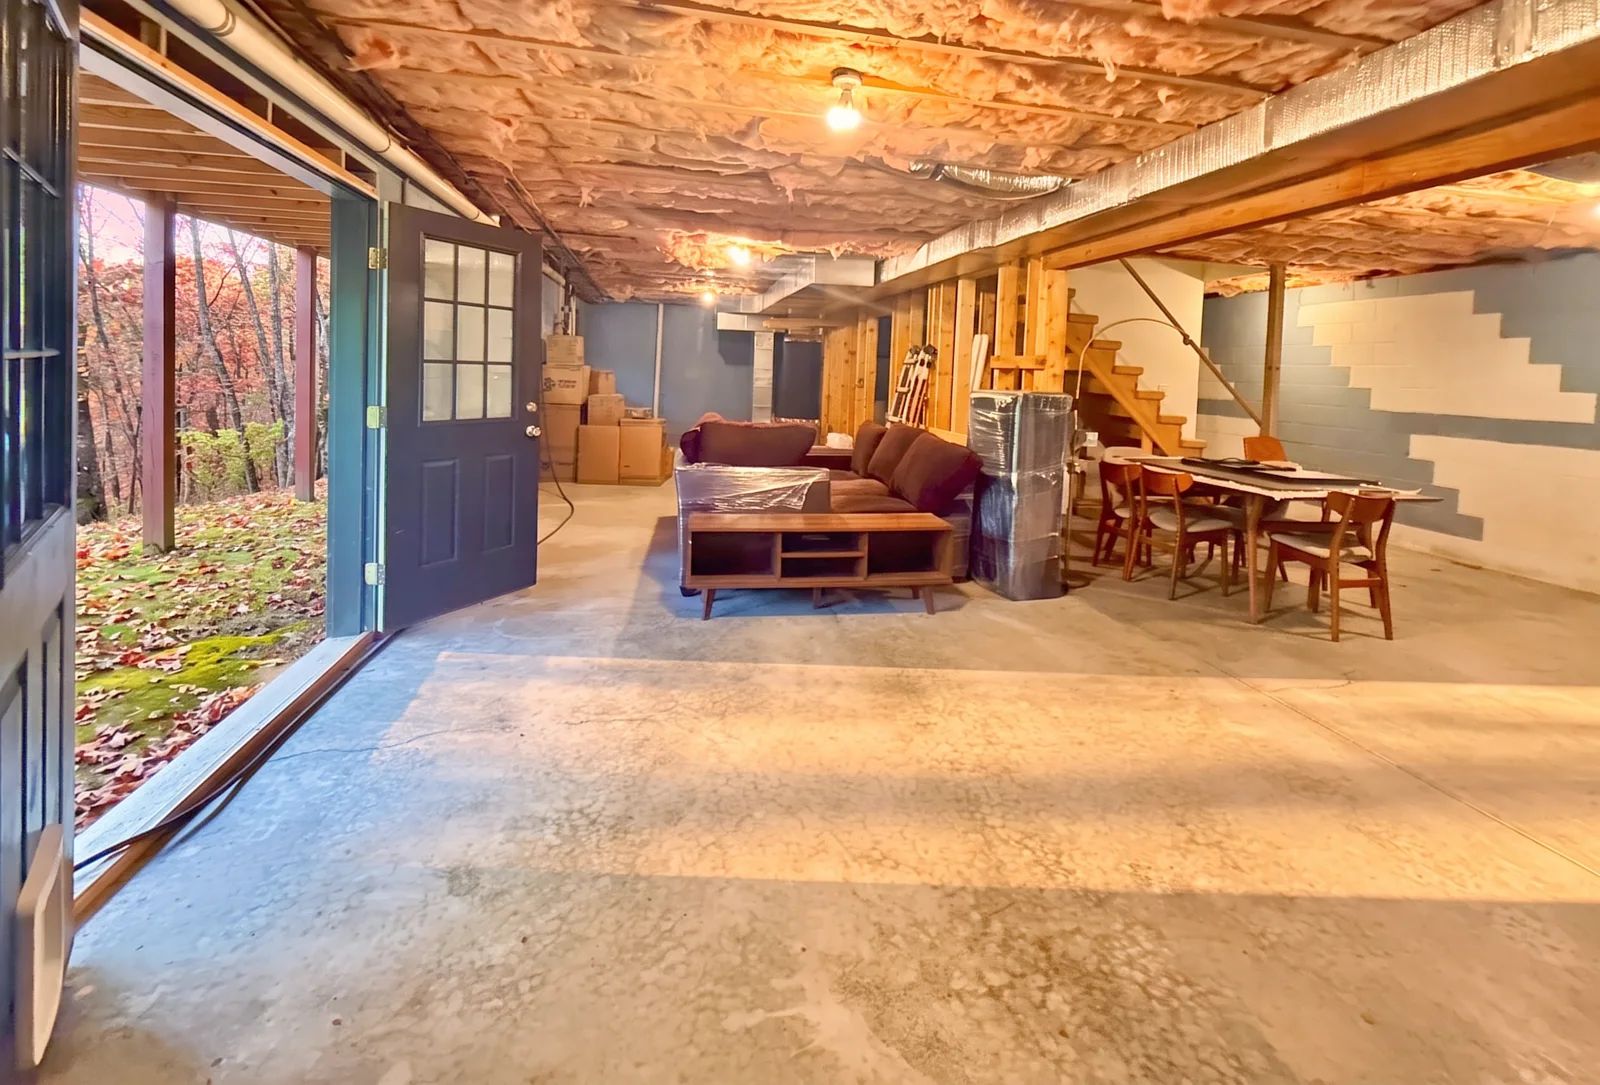
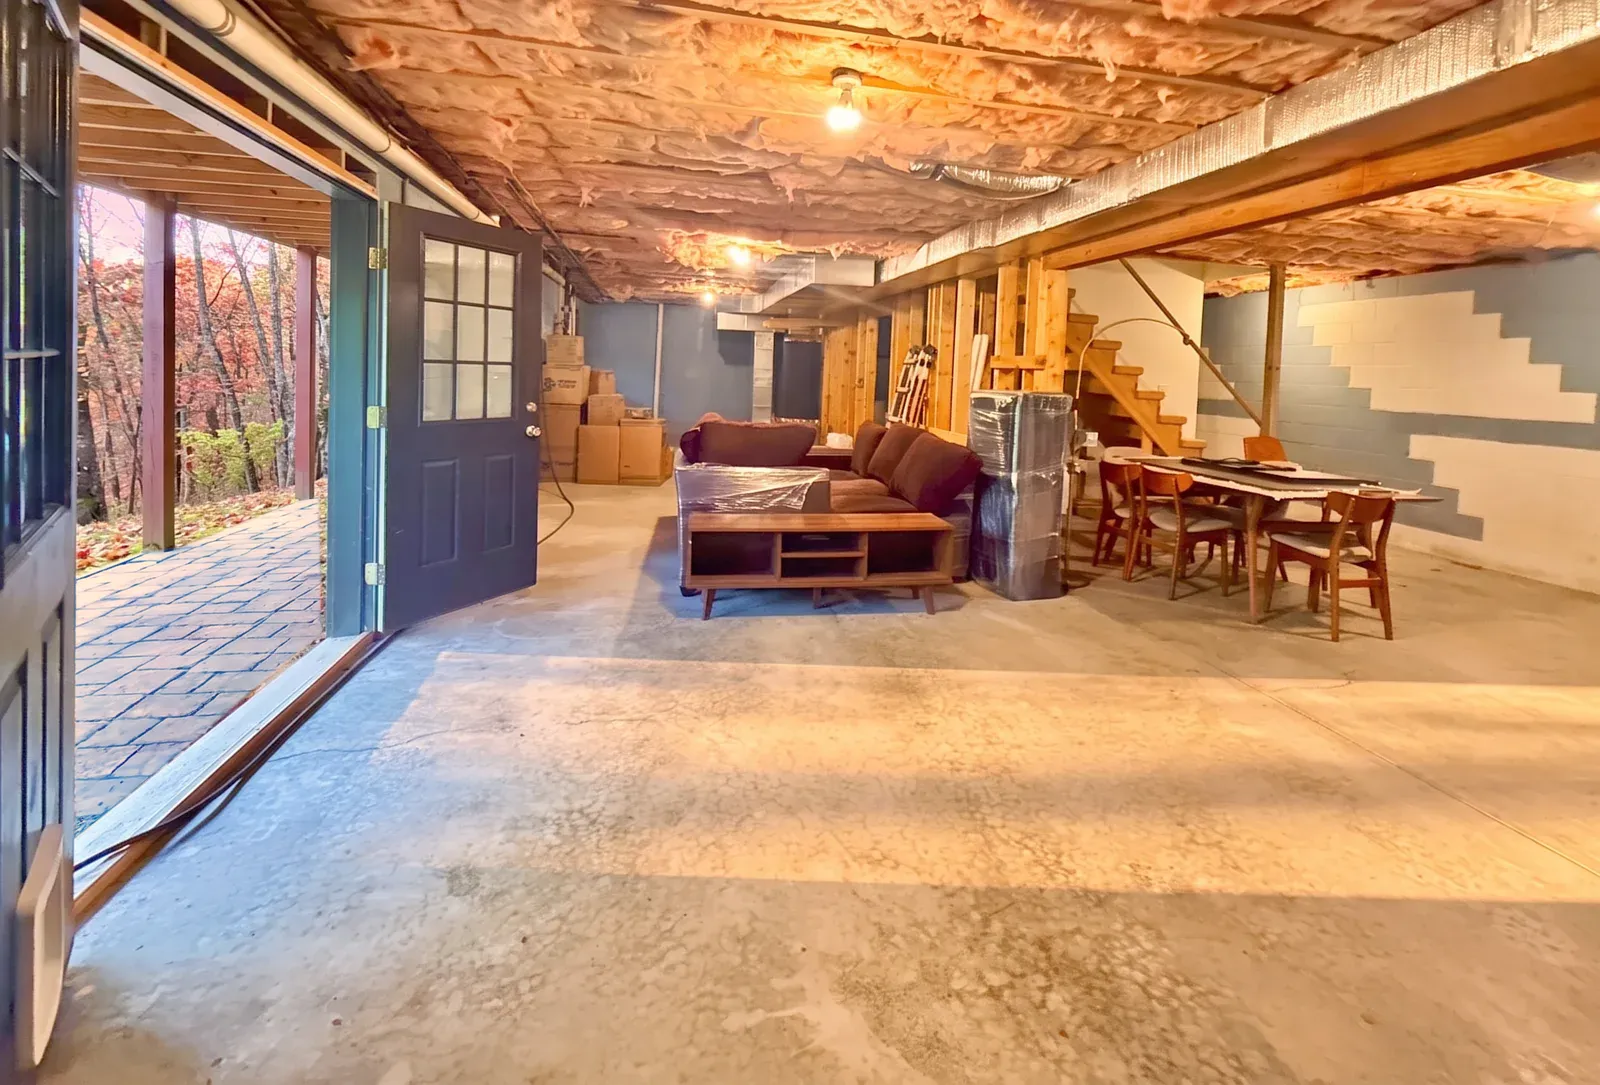
Finish approved photo73 cleanup and seasonal asset closeout

Changed region(s): [[0.0312, 0.4562, 0.2188, 0.7604]]

diff --git a/.pi/plans/2026-10-09-colonial-66v-photo73-closeout-plan.md b/.pi/plans/2026-10-09-colonial-66v-photo73-closeout-plan.md
@@ -1,0 +1,20 @@
+# Photo73 repair and colonial-66v closeout
+
+**Issue:** colonial-66v
+**Branch:** main
+**Goal:** install owner-approved four-anchor photo73 repair, verify bounded change, close asset work with explicit review exceptions.
+
+## Accepted scope
+
+Owner approved private `.pi/artifacts/colonial-66v-photo73-repair/review.jpg` and four PNG masters after requesting doorway clutter removal. Summer removes bags/hose/shop-vac/tools/mat; seasonal frames restore the paved landing. Interior storage/furniture and original/gallery photos remain untouched. Pixels outside repair masks match their respective sources exactly. Reconstructed ground beneath clutter is not measured ground truth.
+
+Use `assets/seasons-next/73/{00,03,06,09}.webp` and matching small files. Existing recipe: large WebP quality80, small quality78 resized from large to original-small dimensions. Change only photo73 in `frames.json` to keys0/3/6/9, original=[]; untouched gallery73 remains fallback. Update `scripts/publish-files.txt` accordingly. Archive then retire tracked08/08-small from seasonal export directory (strict inventory rejects unused files); recoverable from e046fb0a0545e9cbf390c9683fc5c9c4bdb62c4c and private backup. Preserve every private master.
+
+## Verification and closeout
+
+- Add focused manifest/generated-summer/publication regression in `tests/seasonal-assets.test.mjs`; observe RED before installation, GREEN after.
+- Check approved master hashes, exact8 output dimensions, encoding RMSE, all original hashes and all non73 seasonal hashes unchanged; allowlisted build exactly matches source. Preserve private provenance/export report.
+- Run Node suite, Python listing/export-WB/photo-WB/walkthrough tools, design/marketing checks, full seasonal dimension/inventory check and both diff checks. No runtime changes or new dependencies.
+- Refresh QA continuity: kitchen/revised bathroom/porch appearance accepted, delivery verified; exhaustive frame/transition review explicitly skipped by owner for these repairs, not falsely certified. Previous detailed QA inventory remains historical. Basement30 unchanged; no further basement grading requested.
+- Commit only task-owned change; direct-closeout after final gates. No new push/deployment authority. User requested close after this repair, not another full-set review.
+- After66v closes, create successor for small always-visible mono/two-color mechanical seasonal-clock indicator integrated with accessible Pause/Resume; handoff to implement. Preserve reduced-motion, keyboard/focus, screen-reader and shared-clock behavior.

diff --git a/.pi/plans/2026-10-08-colonial-66v-qa.md b/.pi/plans/2026-10-08-colonial-66v-qa.md
@@ -2,7 +2,15 @@
 
 ## Current status
 
-**Open: exhaustive asset QA remains a completion gate.** On 8 October 2026 the owner explicitly chose to go through the photos, recording exceptions, clarifications or repairs. Broad prior grid acceptance is not a waiver of unreviewed defects. No new generation, publication, push or deployment is authorized by this record.
+**9 October closeout scope:** owner accepted the final photo73 clutter-removal/paving previews and explicitly directed skipping exhaustive frame/transition review for these repairs, then closing colonial-66v. This supersedes the earlier exhaustive-review closure gate; it does not certify unperformed checks. Final local export/check/commit evidence is recorded in the Bead and [photo73 closeout plan](2026-10-09-colonial-66v-photo73-closeout-plan.md).
+
+Photo73 now uses generated anchors **0/3/6/9**, with its untouched catalog original retained for galleries/viewers/fallbacks. Both tiers have matching original dimensions. Retired key8 exports remain privately backed up and recoverable from `e046fb0`. Private approved masters, masks, generation provenance, before hashes and export report: `.pi/artifacts/colonial-66v-photo73-repair/`. Repairs change only doorway clutter/paving; all source pixels outside masks remain identical before WebP encoding. Ground formerly hidden by clutter is reconstructed, not surveyed geometry.
+
+Kitchen reflection and room-group appearance were subsequently accepted; final B warmth, upstairs bathroom doorway-wall reference, clipping exceptions and all six porch views were approved and deployed under separate exact approvals. Basement30 remains unchanged. Complete numerical registration/per-frame generative-lineage coverage and exhaustive full-size/repeated-cycle QA are **not certified**. Existing provenance and historical coverage ledger remain preserved, not retroactively marked passed. New photo73 exports are local only; previous deployment approvals are consumed.
+
+## Historical record — 8 October
+
+At that checkpoint the owner retained exhaustive QA as a completion gate. The remaining sections describe evidence and pending items **as of that date**; later dispositions above and Bead comments supersede them. No new publication authority is granted by this record.
 
 Recovery sources: `bd show colonial-wtm`, `bd show colonial-66v`, their referenced pilot and architecture artifacts. No earlier transcript or unrelated memory was recovered. Existing untracked `.beads.gate.lock`, `.claude/` and `MEMORY.md` remain untouched.
 

diff --git a/.pi/plans/2026-10-07-colonial-66v-pilot.md b/.pi/plans/2026-10-07-colonial-66v-pilot.md
@@ -2,7 +2,7 @@
 
 Owner-requested pilot, 7 October 2026. Historical production log; later integration was separately delivered by colonial-gz0. This log grants no publication authority.
 
-**Current QA continuation:** [8 October asset QA and repair record](2026-10-08-colonial-66v-qa.md). Contract is now the accepted sparse-key 36-second year, not the early timing below. Photo02 dimensions repaired; exhaustive QA remains open by explicit owner choice. Basement73 repair direction is a new uncluttered summer key with original paving preserved, retaining four anchors 0/3/6/9; not yet generated or applied.
+**Current closeout record:** [asset QA and repair dispositions](2026-10-08-colonial-66v-qa.md), updated9 October. Contract is the accepted sparse-key36-second year, not early timing below. Photo02 dimensions and approved room/porch warmth repaired. Owner approved photo73 doorway cleanup/paving restoration at four generated anchors0/3/6/9 and explicitly skipped exhaustive frame/transition review for these repairs. See [photo73 closeout plan](2026-10-09-colonial-66v-photo73-closeout-plan.md) and Bead for final gates/commit; no claim of exhaustive registration or generation-lineage certification. Earlier entries below remain historical.
 
 ## Owner facts used in prompts
 
